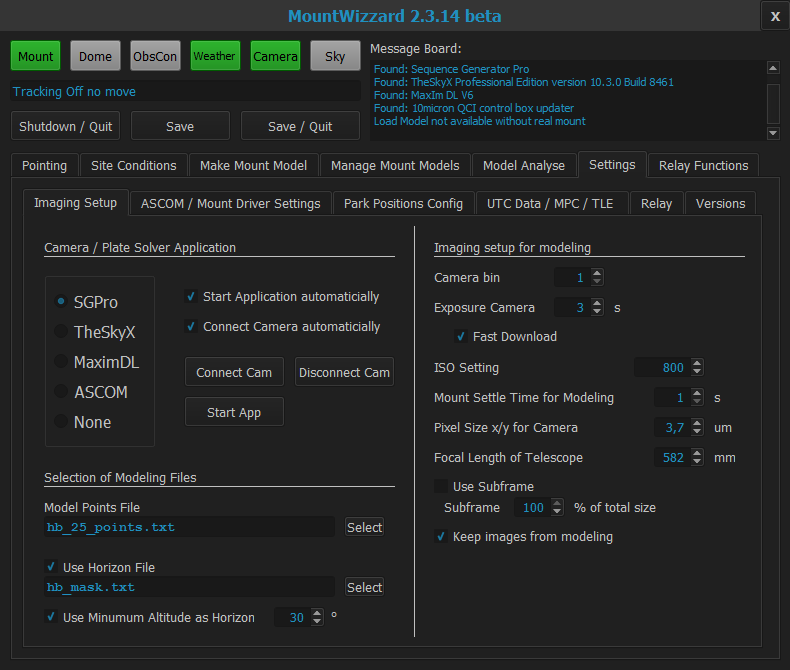
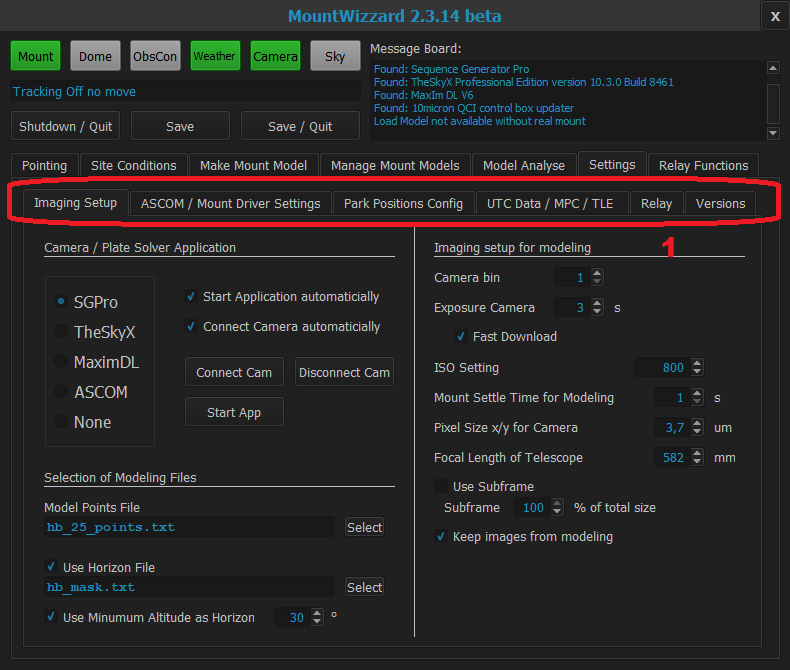
readme update

Changed region(s): [[0.0, 0.2388, 1.0, 0.3284], [0.0304, 0.3284, 0.9722, 0.3881]]

diff --git a/mountwizzard/docu/11start06.md b/mountwizzard/docu/11start06.md
@@ -1,14 +1,16 @@
-## Settings Imaging Setup TAB
+## Settings TAB
 
 <img src="../pics/tab_settings.png"/>
 
 ### Area 1
 
-#### -
+Area 1 shows a second level ob TAB for doing all configuration settings. These are in the following:
 
-### Area 2
-
-#### -
+- [Imaging Setup TAB](11start61.md)
+- [ASCOM 7 Mount Driver Settings TAB](11start62.md)
+- [Park Position Config TAB](11start63.md)
+- [UTC Data / MPC / TLE TAB](11start64.md)
+- [Versions TAB](11start65.md)
 
 [Screens](11start00.md)
 

diff --git a/mountwizzard/docu/11start062.md b/mountwizzard/docu/11start062.md
@@ -1,4 +1,4 @@
-## Settings ASCOM / Mount Driver Settings TAB
+## ASCOM / Mount Driver Settings TAB
 
 <img src="../pics/tab_settings_ascommountdriver.png"/>
 

diff --git a/mountwizzard/docu/11start063.md b/mountwizzard/docu/11start063.md
@@ -1,4 +1,4 @@
-## Settings Park Positions Config TAB
+## Park Positions Config TAB
 
 <img src="../pics/tab_settings_parkpositionsconfig.png"/>
 

diff --git a/mountwizzard/docu/11start064.md b/mountwizzard/docu/11start064.md
@@ -1,4 +1,4 @@
-## Settings UTC Data / MPC / TLE TAB
+## UTC Data / MPC / TLE TAB
 
 <img src="../pics/tab_settings_utcdata.png"/>
 

diff --git a/mountwizzard/docu/11start061.md b/mountwizzard/docu/11start061.md
@@ -1,4 +1,4 @@
-## Settings Imaging Setup TAB
+## Imaging Setup TAB
 
 <img src="../pics/tab_settings_imagingsetup.png"/>
 

diff --git a/mountwizzard/docu/11start065.md b/mountwizzard/docu/11start065.md
@@ -1,4 +1,4 @@
-## Settings version TAB
+## Version TAB
 
 <img src="../pics/tab_settings_versions.png"/>
 
